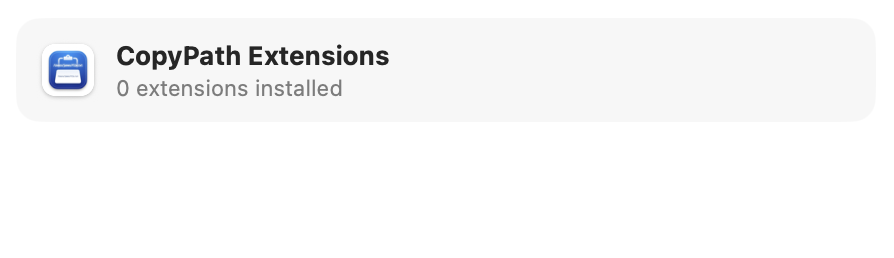
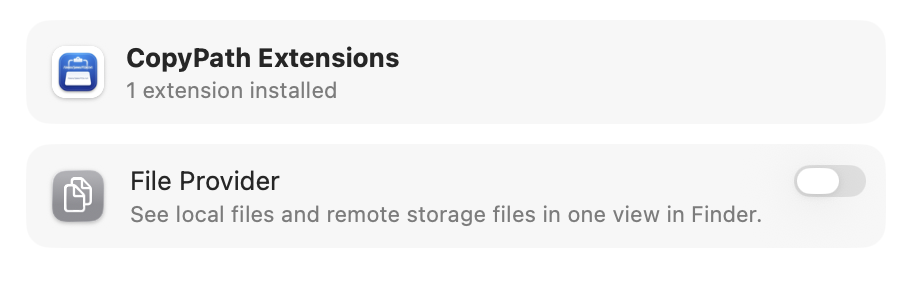
Build 39: use the screenshot with the actual toggle
The old onboarding image only showed the header row — users couldn't
see the toggle they needed to flip. Swap in the new screenshot
(CopyPath Extensions header + File Provider toggle row), tweak the
caption to "Find this in Settings, then flip the toggle on:", and
adjust the layout so the taller image fits cleanly.

Image position now anchors its TOP to a fixed y so any future image
ratio change works without manual coord juggling.

Instructions condensed to one wrapped sentence — the image now does
most of the explaining.

Changed region(s): [[0.0302, 0.155, 0.453, 0.4031], [0.0302, 0.5271, 0.8456, 0.7442], [0.8758, 0.5271, 0.9664, 0.6512]]

diff --git a/CopyPathHelper/AppDelegate.swift b/CopyPathHelper/AppDelegate.swift
@@ -55,22 +55,23 @@ class AppDelegate: NSObject, NSApplicationDelegate {
         content.addSubview(subtitle)
 
         // Caption above the screenshot
-        let caption = NSTextField(labelWithString: "Look for this entry in System Settings:")
+        let caption = NSTextField(labelWithString: "Find this in Settings, then flip the toggle on:")
         caption.font = NSFont.systemFont(ofSize: 11, weight: .medium)
         caption.alignment = .center
         caption.textColor = .tertiaryLabelColor
-        caption.frame = NSRect(x: 20, y: 352, width: W - 40, height: 16)
+        caption.frame = NSRect(x: 20, y: 358, width: W - 40, height: 16)
         content.addSubview(caption)
 
-        // Screenshot — defensive load, skip silently if anything is off.
+        // Screenshot — anchor the TOP just below the caption, height scales to aspect.
+        let imageTop: CGFloat = 350
         if let path = Bundle.main.path(forResource: "onboarding-target", ofType: "png"),
            let image = NSImage(contentsOfFile: path),
            image.size.width > 0,
            image.size.height > 0 {
             Trace.write("delegate: loaded onboarding image \(image.size.width)x\(image.size.height)")
-            let imgW: CGFloat = 400
+            let imgW: CGFloat = 420
             let imgH = (imgW * image.size.height / image.size.width).rounded()
-            let imgView = NSImageView(frame: NSRect(x: (W - imgW) / 2, y: 232, width: imgW, height: imgH))
+            let imgView = NSImageView(frame: NSRect(x: (W - imgW) / 2, y: imageTop - imgH, width: imgW, height: imgH))
             imgView.image = image
             imgView.imageScaling = .scaleProportionallyDown
             imgView.imageAlignment = .alignCenter
@@ -79,12 +80,13 @@ class AppDelegate: NSObject, NSApplicationDelegate {
             Trace.write("delegate: onboarding image missing or invalid — skipped")
         }
 
-        // Instructions
+        // Instructions — explanatory, since the image already shows what to flip
         let instructions = NSTextField(wrappingLabelWithString:
-            "1.  Click the ⓘ icon next to that row\n2.  Flip the toggle on\n3.  Close this window")
+            "Click below, find the row above, click its ⓘ icon, then flip the toggle on.")
         instructions.font = NSFont.systemFont(ofSize: 13)
-        instructions.alignment = .left
-        instructions.frame = NSRect(x: 130, y: 130, width: 220, height: 65)
+        instructions.alignment = .center
+        instructions.textColor = .secondaryLabelColor
+        instructions.frame = NSRect(x: 40, y: 130, width: W - 80, height: 40)
         content.addSubview(instructions)
 
         // Action button
